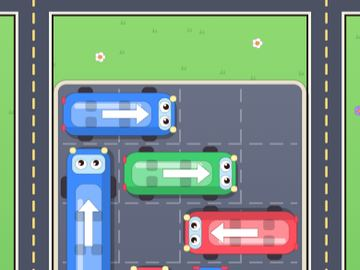
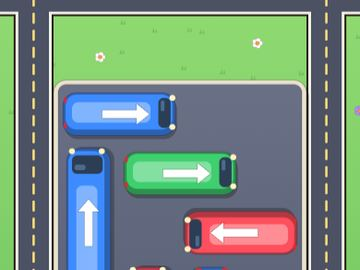
巴士：實色車身、無輪胎無格子、普通人公仔；倒水困難加難；選單拎走簡單

diff --git a/games/bus.js b/games/bus.js
@@ -338,11 +338,6 @@
         gr.addColorStop(0, '#6a7086'); gr.addColorStop(1, '#585e73');
         g.fillStyle = gr;
         U.rr(g, lotX, lotY, lotW, lotH, 9); g.fill(); olStroke(g, 2);
-        g.strokeStyle = 'rgba(255,255,255,0.28)'; g.lineWidth = 2; g.setLineDash([cell * 0.22, cell * 0.12]);
-        g.beginPath();
-        for (let i = 1; i < cols; i++) { g.moveTo(lotX + i * cell, lotY + 5); g.lineTo(lotX + i * cell, lotY + lotH - 5); }
-        for (let j = 1; j < rows; j++) { g.moveTo(lotX + 5, lotY + j * cell); g.lineTo(lotX + lotW - 5, lotY + j * cell); }
-        g.stroke(); g.setLineDash([]);
         // bushes, trees and flowers outside the roads
         for (let i = 0; i < 46; i++) {
           const x = tr() * W, y = T + road / 2 + tr() * (H - T - road / 2), r = 7 + tr() * 9, kind = tr();
@@ -444,57 +439,32 @@
         g.save(); g.translate(x, y); g.rotate(a);
         g.fillStyle = 'rgba(0,0,0,0.25)';
         U.rr(g, -Lp / 2 + 2, -Wd / 2 + 4, Lp, Wd, rad); g.fill();
-        // wheels peeking out of the sides
-        const wr = Wd * 0.13, wl = Math.max(3, Lp * 0.13);
-        for (const wx of [Lp * 0.27, -Lp * 0.3]) {
-          for (const sy of [-1, 1]) {
-            U.rr(g, wx - wl / 2, sy * Wd / 2 - wr, wl, wr * 2, wr * 0.8);
-            g.fillStyle = '#3a3440'; g.fill(); olStroke(g, lw * 0.8);
-          }
-        }
-        // body
+        // body: solid paint with a darker side skirt
         U.rr(g, -Lp / 2, -Wd / 2, Lp, Wd, rad);
-        g.fillStyle = col; g.fill(); olStroke(g, lw);
-        // lower side shading
-        g.save(); U.rr(g, -Lp / 2, -Wd / 2, Lp, Wd, rad); g.clip();
-        g.fillStyle = dark; g.globalAlpha = 0.45; g.fillRect(-Lp / 2, Wd * 0.3, Lp, Wd * 0.2); g.globalAlpha = 1;
-        g.restore();
-        // roof panel + gloss strip
-        U.rr(g, -Lp / 2 + Lp * 0.07, -Wd * 0.3, Lp * 0.72, Wd * 0.6, Wd * 0.2);
-        g.fillStyle = light; g.fill(); olStroke(g, lw * 0.6);
-        U.rr(g, -Lp / 2 + Lp * 0.1, -Wd * 0.25, Lp * 0.6, Wd * 0.12, Wd * 0.06);
-        g.fillStyle = 'rgba(255,255,255,0.55)'; g.fill();
-        // windshield with two cute eyes
-        const wsx = Lp / 2 - Lp * 0.15, wsw = Lp * 0.115;
-        U.rr(g, wsx, -Wd * 0.38, wsw, Wd * 0.76, Wd * 0.14);
-        g.fillStyle = '#bfe8ff'; g.fill(); olStroke(g, lw * 0.7);
-        if (!masked) {
-          const er = Math.max(1.6, Math.min(wsw * 0.42, Wd * 0.12));
-          for (const sy of [-1, 1]) {
-            blob(g, wsx + wsw * 0.5, sy * Wd * 0.17, er, er * 1.1, '#ffffff', lw * 0.5);
-            g.fillStyle = OL; g.beginPath(); g.arc(wsx + wsw * 0.5 + er * 0.25, sy * Wd * 0.17, er * 0.55, 0, Math.PI * 2); g.fill();
-            g.fillStyle = '#fff'; g.beginPath(); g.arc(wsx + wsw * 0.5 + er * 0.05, sy * Wd * 0.17 - er * 0.3, er * 0.22, 0, Math.PI * 2); g.fill();
-          }
-        }
+        g.fillStyle = dark; g.fill(); olStroke(g, lw);
+        U.rr(g, -Lp / 2 + Wd * 0.06, -Wd / 2 + Wd * 0.04, Lp - Wd * 0.12, Wd * 0.82, rad * 0.85);
+        g.fillStyle = col; g.fill();
+        // roof: one solid lighter panel
+        U.rr(g, -Lp / 2 + Lp * 0.08, -Wd * 0.28, Lp * 0.7, Wd * 0.48, Wd * 0.14);
+        g.fillStyle = light; g.fill();
+        // windshield: dark tinted glass
+        const wsx = Lp / 2 - Lp * 0.15, wsw = Lp * 0.11;
+        U.rr(g, wsx, -Wd * 0.38, wsw, Wd * 0.7, Wd * 0.12);
+        g.fillStyle = '#2c3e55'; g.fill();
+        g.fillStyle = '#4d6a8c'; U.rr(g, wsx + wsw * 0.2, -Wd * 0.32, wsw * 0.3, Wd * 0.25, wsw * 0.15); g.fill();
         // headlights + tail lights
-        const hr = Math.max(1.4, Wd * 0.075);
-        blob(g, Lp / 2 - hr * 0.6, -Wd * 0.36, hr, hr, '#fff4a8', lw * 0.5);
-        blob(g, Lp / 2 - hr * 0.6, Wd * 0.36, hr, hr, '#fff4a8', lw * 0.5);
-        U.rr(g, -Lp / 2 - 1, -Wd * 0.4, 3.5, Wd * 0.16, 1.5); g.fillStyle = '#ff4256'; g.fill(); olStroke(g, lw * 0.4);
-        U.rr(g, -Lp / 2 - 1, Wd * 0.24, 3.5, Wd * 0.16, 1.5); g.fill(); olStroke(g, lw * 0.4);
-        // seats: chibi passengers (top view) or empty seat cushions
-        const sr = Math.max(1.8, Math.min(Wd * 0.13, Lp * 0.3 / b.cap * 1.4));
-        for (let i = 0; i < b.cap && !masked; i++) {
+        const hr = Math.max(1.4, Wd * 0.07);
+        g.fillStyle = '#fff4c2';
+        g.beginPath(); g.arc(Lp / 2 - hr * 0.9, -Wd * 0.38, hr, 0, Math.PI * 2); g.arc(Lp / 2 - hr * 0.9, Wd * 0.3, hr, 0, Math.PI * 2); g.fill();
+        g.fillStyle = '#d92b3a';
+        U.rr(g, -Lp / 2 + 1, -Wd * 0.4, 3, Wd * 0.14, 1.5); g.fill();
+        U.rr(g, -Lp / 2 + 1, Wd * 0.2, 3, Wd * 0.14, 1.5); g.fill();
+        // passengers seen from above: just heads, only once seated
+        const sr = Math.max(1.8, Math.min(Wd * 0.12, Lp * 0.3 / b.cap * 1.3));
+        for (let i = 0; i < b.filled && !masked; i++) {
           seatLocal(b, i, Lp, Wd, tmp2);
-          if (i < b.filled) {
-            blob(g, tmp2[0] - sr * 0.25, tmp2[1], sr * 1.2, sr * 1.25, col === b.col ? U.shade(col, -0.15) : col, Math.max(1, lw * 0.45));
-            blob(g, tmp2[0] + sr * 0.15, tmp2[1], sr * 0.85, sr * 0.85, '#ffdcb8', Math.max(1, lw * 0.45));
-            g.fillStyle = '#5a3a2a';
-            g.beginPath(); g.arc(tmp2[0] + sr * 0.05, tmp2[1], sr * 0.85, Math.PI * 0.55, Math.PI * 1.45); g.fill();
-          } else {
-            U.rr(g, tmp2[0] - sr, tmp2[1] - sr, sr * 2, sr * 2, sr * 0.6);
-            g.fillStyle = 'rgba(0,0,0,0.2)'; g.fill();
-          }
+          g.fillStyle = '#3b2a20'; g.beginPath(); g.arc(tmp2[0], tmp2[1], sr, 0, Math.PI * 2); g.fill();
+          g.fillStyle = '#f0c9a0'; g.beginPath(); g.arc(tmp2[0] + sr * 0.35, tmp2[1], sr * 0.55, 0, Math.PI * 2); g.fill();
         }
         if (inLot) {
           // white direction arrow on the roof, pointing at the nose
@@ -521,25 +491,17 @@
         g.restore();
       }
       function drawPerson(g, x, y, s, col, step) {
-        // chibi passenger: big round head, tiny body, stubby legs
-        const sw = Math.sin(step) * 1.6 * s, lw = Math.max(1, 1.5 * s);
-        g.fillStyle = 'rgba(0,0,0,0.18)'; g.beginPath(); g.ellipse(x, y + 9.5 * s, 5 * s, 1.6 * s, 0, 0, Math.PI * 2); g.fill();
-        blob(g, x - 2 * s + sw * 0.5, y + 6.5 * s, 1.9 * s, 2.8 * s, '#3d3550', lw);
-        blob(g, x + 2 * s - sw * 0.5, y + 6.5 * s, 1.9 * s, 2.8 * s, '#3d3550', lw);
-        U.rr(g, x - 4.4 * s, y - 2.5 * s, 8.8 * s, 8.5 * s, 3.6 * s);
-        g.fillStyle = col; g.fill(); olStroke(g, lw);
-        g.fillStyle = 'rgba(255,255,255,0.35)';
-        U.rr(g, x - 3.2 * s, y - 1.6 * s, 2.2 * s, 4.5 * s, 1.1 * s); g.fill();
-        blob(g, x, y - 8 * s, 6.2 * s, 5.9 * s, '#ffdcb8', lw);
-        g.fillStyle = '#5a3a2a';
-        g.beginPath(); g.ellipse(x, y - 10 * s, 6.2 * s, 4.2 * s, 0, Math.PI, Math.PI * 2); g.fill();
-        g.beginPath(); g.ellipse(x, y - 8 * s, 6.2 * s, 5.9 * s, 0, Math.PI * 1.02, Math.PI * 1.98); olStroke(g, lw);
-        if (s > 0.55) {
-          g.fillStyle = OL;
-          g.beginPath(); g.arc(x - 2.2 * s, y - 7 * s, 1.1 * s, 0, Math.PI * 2); g.arc(x + 2.2 * s, y - 7 * s, 1.1 * s, 0, Math.PI * 2); g.fill();
-          g.fillStyle = 'rgba(255,120,120,0.55)';
-          g.beginPath(); g.arc(x - 3.6 * s, y - 5.2 * s, 1 * s, 0, Math.PI * 2); g.arc(x + 3.6 * s, y - 5.2 * s, 1 * s, 0, Math.PI * 2); g.fill();
-        }
+        // simple standing passenger: small head, coat in the bus colour, two legs
+        const sw = Math.sin(step) * 1.4 * s;
+        g.fillStyle = 'rgba(0,0,0,0.18)'; g.beginPath(); g.ellipse(x, y + 9.5 * s, 4.5 * s, 1.4 * s, 0, 0, Math.PI * 2); g.fill();
+        g.fillStyle = '#2f3440';
+        U.rr(g, x - 2.6 * s + sw * 0.4, y + 2.5 * s, 2.2 * s, 7 * s, 1 * s); g.fill();
+        U.rr(g, x + 0.4 * s - sw * 0.4, y + 2.5 * s, 2.2 * s, 7 * s, 1 * s); g.fill();
+        U.rr(g, x - 3.6 * s, y - 5 * s, 7.2 * s, 9 * s, 2.6 * s);
+        g.fillStyle = col; g.fill();
+        g.fillStyle = U.shade(col, -0.25); U.rr(g, x + 1.2 * s, y - 4.6 * s, 2.2 * s, 8.4 * s, 1.1 * s); g.fill();
+        g.fillStyle = '#f0c9a0'; g.beginPath(); g.arc(x, y - 8.2 * s, 3 * s, 0, Math.PI * 2); g.fill();
+        g.fillStyle = '#3b2a20'; g.beginPath(); g.arc(x, y - 8.9 * s, 3.1 * s, Math.PI * 1.05, Math.PI * 1.95); g.fill();
       }
       function burst(x, y, n, colr, spd, life, size) {
         for (let i = 0; i < n; i++) {

diff --git a/core.js b/core.js
@@ -47,7 +47,8 @@
     const k = MODES[mode].key;
     return g[k] = g[k] || { lv: 1, top: 0, best: 0 };
   }
-  function lastMode(id) { return (save.last && save.last[id]) || 0; }
+  // 簡單 is no longer offered in the picker (user asked to start at 普通); old 簡單 picks fall back to 普通
+  function lastMode(id) { return (save.last && save.last[id]) || 1; }
 
   // ---------- seeded rng ----------
   function mulberry32(a) {
@@ -138,7 +139,7 @@
   function tileRecord(def) {
     const p = save.p[def.id] || {};
     const parts = [];
-    for (let m = 0; m < 3; m++) { const r = p[MODES[m].key]; if (r && r.top > 0) parts.push(MODES[m].name[0] + r.top); }
+    for (let m = 1; m < 3; m++) { const r = p[MODES[m].key]; if (r && r.top > 0) parts.push(MODES[m].name[0] + r.top); }
     if (def.endless && p.x && p.x.best > 0) parts.push('🏆' + p.x.best);
     return parts.length ? parts.join(' · ') : '未開始';
   }
@@ -161,7 +162,7 @@
     $('pkName').textContent = def.name;
     const box = $('pkModes'); box.innerHTML = '';
     const n = def.endless ? 4 : 3;
-    for (let m = 0; m < n; m++) {
+    for (let m = 1; m < n; m++) {
       const r = rec_(id, m), M = MODES[m];
       const b = document.createElement('button');
       b.className = 'mode' + (m === lastMode(id) ? ' sel' : '');

diff --git a/games/water.js b/games/water.js
@@ -11,7 +11,7 @@
   // diff 0 簡單 (original), 1 普通, 2 困難
   function params(level, diff) {
     if (diff === 1) return { n: Math.min(12, 6 + Math.floor((level - 1) / 2)), hid: Math.min(0.5, 0.25 + level * 0.008), spare: 2, undo: 3 };
-    if (diff === 2) return { n: Math.min(12, 8 + Math.floor((level - 1) / 2)), hid: Math.min(0.6, 0.42 + level * 0.006), spare: 1, undo: 2 };
+    if (diff === 2) return { n: Math.min(12, 10 + Math.floor((level - 1) / 3)), hid: Math.min(0.75, 0.62 + level * 0.005), spare: 1, undo: 1 };
     return {
       n: Math.min(12, 3 + Math.floor((level - 1) / 2.5)),
       hid: level >= 8 ? Math.min(0.5, 0.2 + (level - 8) * 0.012) : 0,
@@ -112,7 +112,7 @@
     if (p.spare === 1) {
       tubes = [];
       for (let c = 0; c < n; c++) tubes.push([c, c, c, c]);
-      const iters = 70 + n * 12;
+      const iters = 140 + n * 24;
       for (let it = 0; it < iters || (tubes.some(tubeDone) && it < iters * 4); it++) {
         tries++;
         const i = Math.floor(rng() * n), j = Math.floor(rng() * n), a = Math.floor(rng() * CAP), b = Math.floor(rng() * CAP);

diff --git a/sw.js b/sw.js
@@ -1,6 +1,6 @@
 // Offline cache: everything is precached on first visit, then served cache-first.
 // Each visit also refreshes the cache in the background, so updates show up on the next open.
-const CACHE = 'mg-v7';
+const CACHE = 'mg-v8';
 const GAMES = ['bus', 'water', 'zombie', 'crowd', 'parking', 'screw', 'blocks', 'arrows', 'triple', 'pins', 'pixel', 'fruit', 'stack', 'tangle', 'bricks',
   'runner', 'hole', 'survivor', 'bubble', 'snake', 'helix', 'knife', 'bullet', 'merge', 'paper', 'flow', 'ninja', 'piano', 'g2048', 'jumper', 'multiply'];
 const FILES = ['./', 'index.html', 'style.css', 'core.js', 'manifest.json', 'icon-180.png', 'icon-192.png', 'icon-512.png']
